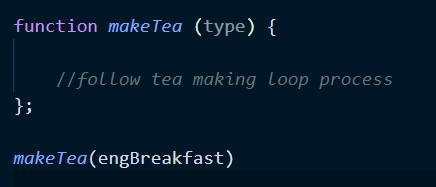
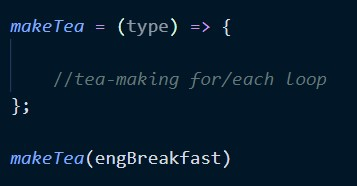
adds corrected img for functions

diff --git a/blog/javasript-dom.html b/blog/javasript-dom.html
@@ -100,7 +100,7 @@
       <p>
         My BFF Functions then came along and automated this entire tea-making
         loop. He called it 'makeTea', bundled it into a function package and slapped a fat
-        arrow on top. Now everytime I want to make tea I just call 'function makeTea(engBreakfast)'
+        arrow on top. Now everytime I want to make tea I just call 'makeTea(engBreakfast)'
         and voila! a perfect cuppa every time. What can I say? My friends are
         pretty awesome.
       </p>
